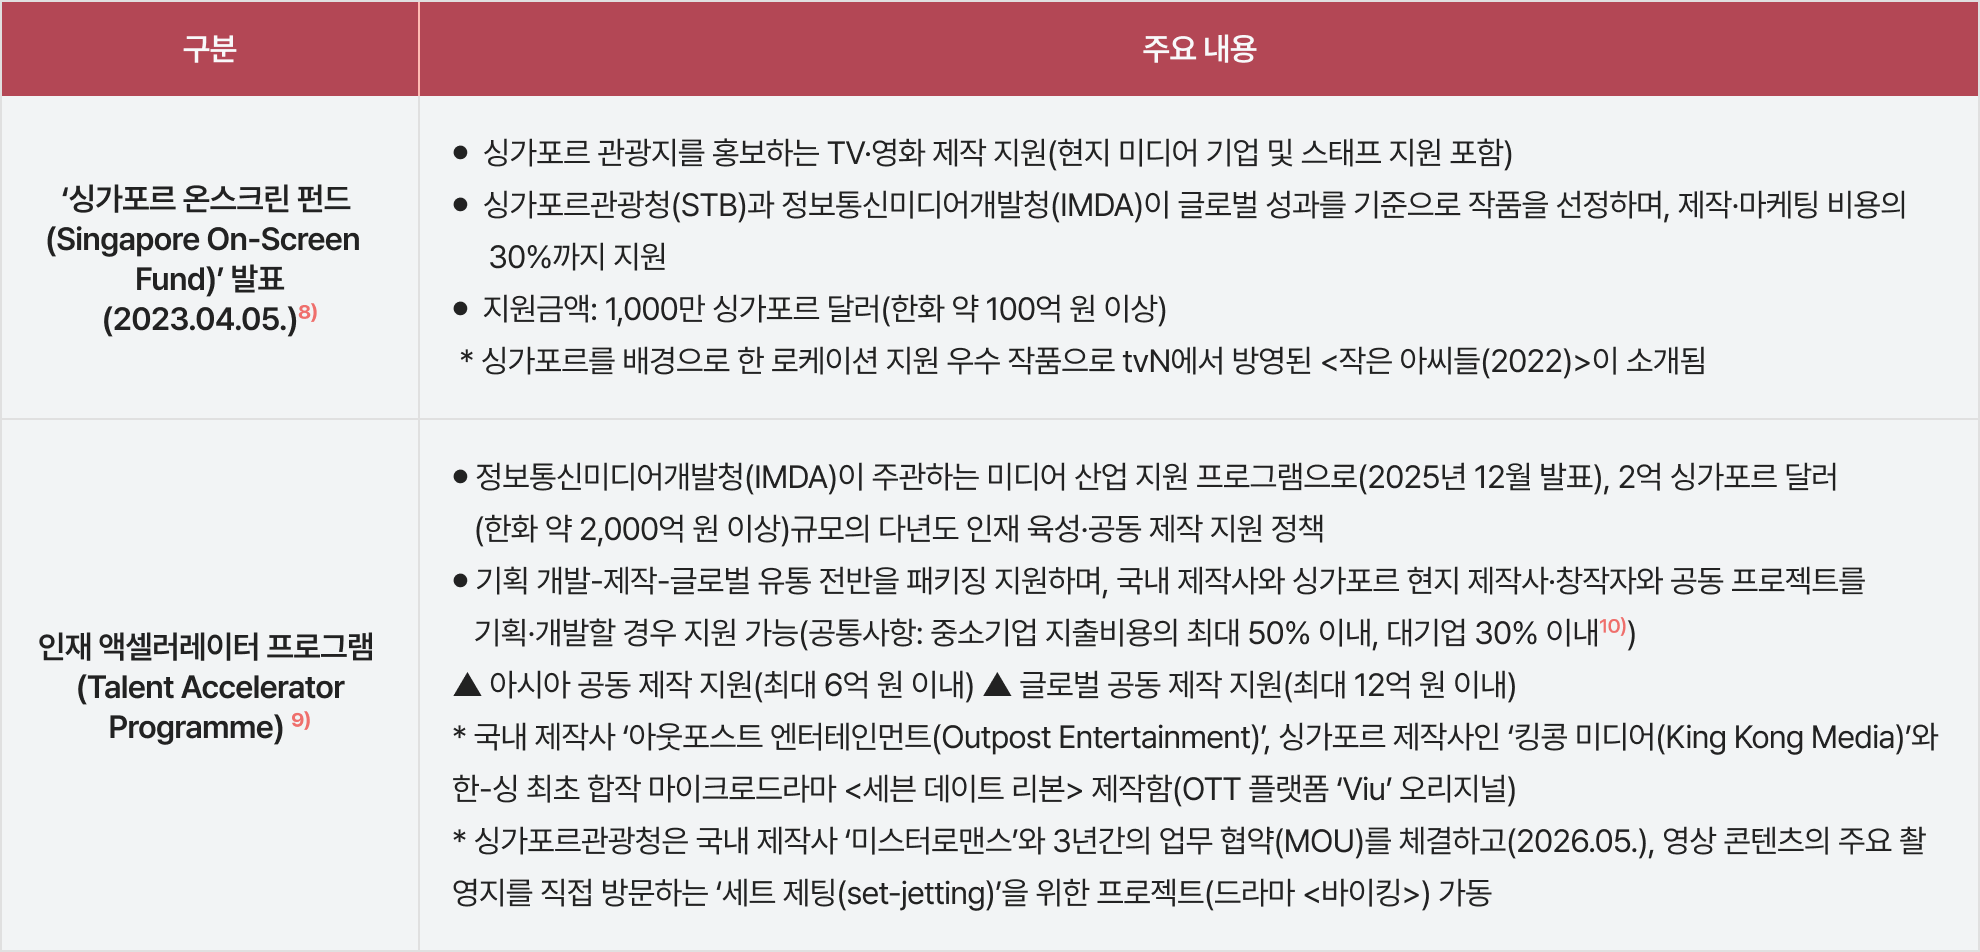
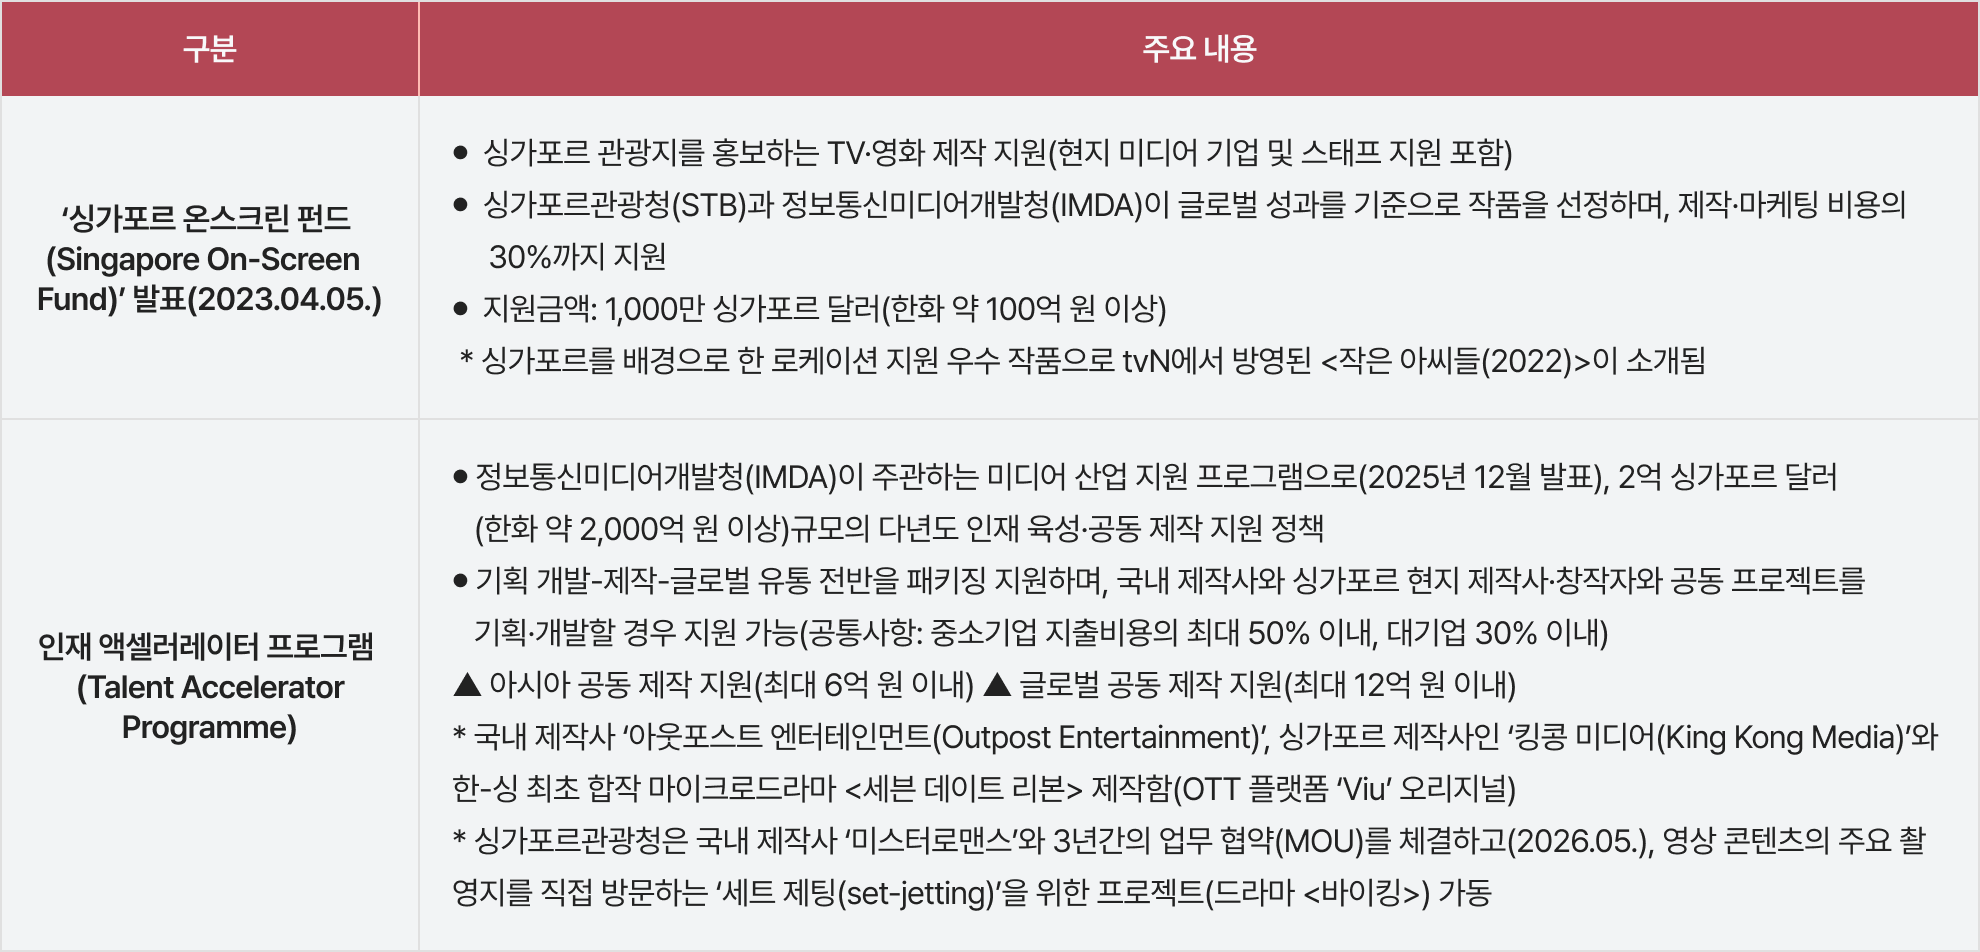
QA

Changed region(s): [[0.0, 0.1828, 0.1848, 0.3655], [0.0616, 0.7311, 0.154, 0.792], [0.801, 0.6397, 0.8318, 0.6702]]

diff --git a/trend_2.html b/trend_2.html
@@ -234,6 +234,14 @@
                 <p>
                   <span class="text-brand">&lt;표 1&gt;</span>
                   일본의 글로벌 영상콘텐츠 제작 지원 정책: JLOX+(Japan content LOcalization and business transformation (X) Plus)
+                  <button
+                    type="button"
+                    class="note-link"
+                    data-note="일본 영상산업진흥기구(VIPO) 홈페이지 참조"
+                    data-url="https://www.vipo.or.jp/en/location-project/"
+                    aria-label="6번 주석 보기">
+                    <sup>6)</sup>
+                  </button>
                 </p>
               </div>
             </div>
@@ -273,6 +281,31 @@
                 <p>
                   <span class="text-brand">&lt;표 2&gt;</span>
                   싱가포르의 글로벌 영상콘텐츠 제작 지원 정책
+
+                  <button
+                    type="button"
+                    class="note-link"
+                    data-note="자세한 내용은 싱가포르 온스크린 펀드 보도자료 참조"
+                    data-url="https://isomer-user-content.by.gov.sg/1/97e968b6-ad6a-4f9a-b378-7b9cb826b7b8/Singapore%20On-screen%20Fund%20Press%20Release_5%20Apr.pdf"
+                    aria-label="8번 주석 보기">
+                    <sup>8)</sup>
+                  </button>
+                  <button
+                    type="button"
+                    class="note-link"
+                    data-note="싱가포르 인재 엑셀러레이터 프로그램(TAP) 홈페이지"
+                    data-url="https://www.imda.gov.sg/about-imda/research-and-statistics/support-for-industry-sectors/media/tap/film"
+                    aria-label="9번 주석 보기">
+                    <sup>9)</sup>
+                  </button>
+                  <button
+                    type="button"
+                    class="note-link"
+                    data-note="지원 요건 등 자세한 내용은 아래 링크에서 확인할 수 있음"
+                    data-url="https://www.imda.gov.sg/-/media/imda/files/for-industry/sector/media/cfp-brief-content-grants-for-feature-film.pdf"
+                    aria-label="10번 주석 보기">
+                    <sup>10)</sup>
+                  </button>
                 </p>
               </div>
             </div>
@@ -323,6 +356,14 @@
                 <p>
                   <span class="text-brand">&lt;표 3&gt;</span>
                   헝가리의 글로벌 영상콘텐츠 제작 지원 정책: 헝가리 영화 인센티브(Hungarian Film Incentive)
+                  <button
+                    type="button"
+                    class="note-link"
+                    data-note="김동식(2024). 해외 촬영? 이제는 기본 옵션: 한국영화 해외 촬영의 확장성. 출처: 영화진흥위원회 웹진, &lt;한국영화>, 2024년 10월호"
+                    data-url="https://magazine.kofic.or.kr/webzine/web/2493/pdsView.do"
+                    aria-label="13번 주석 보기">
+                    <sup>13)</sup>
+                  </button>
                 </p>
 
                 <p>
